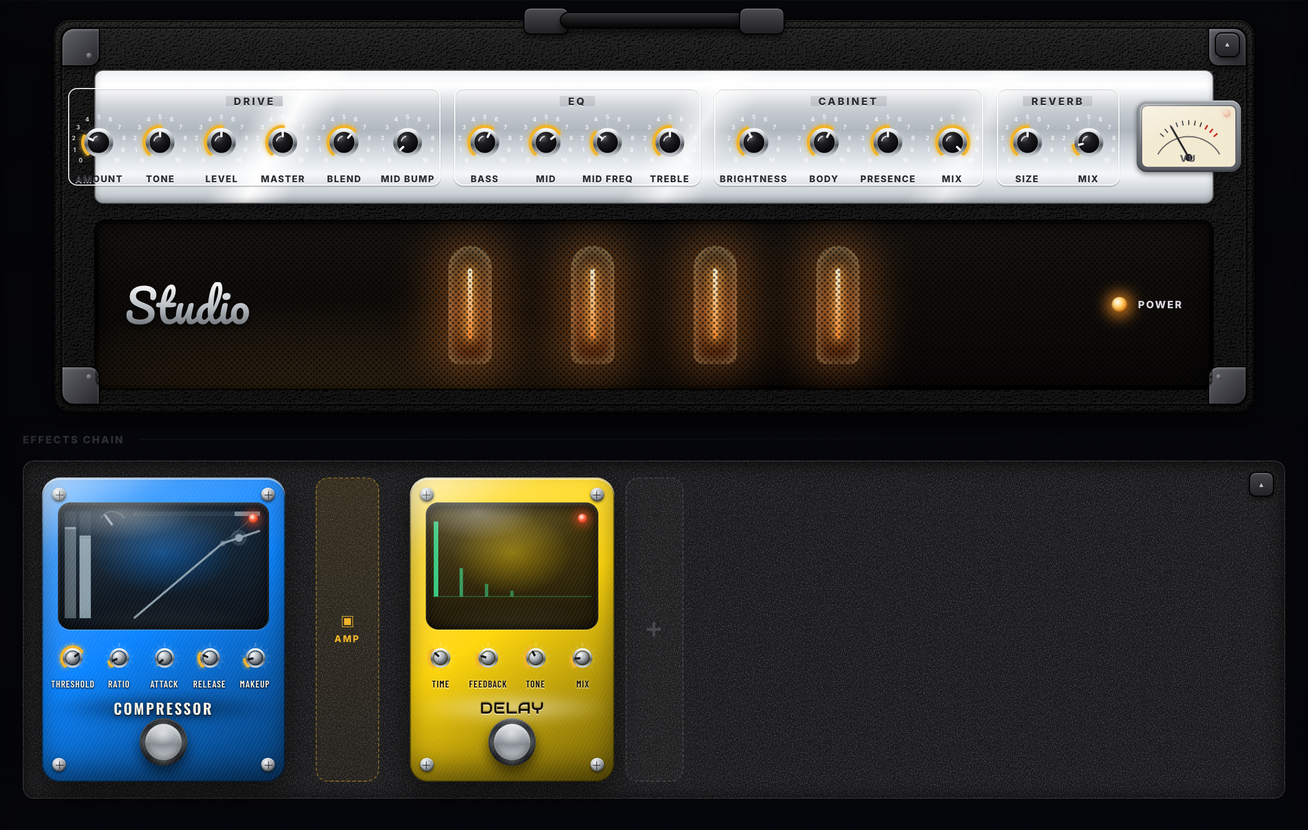
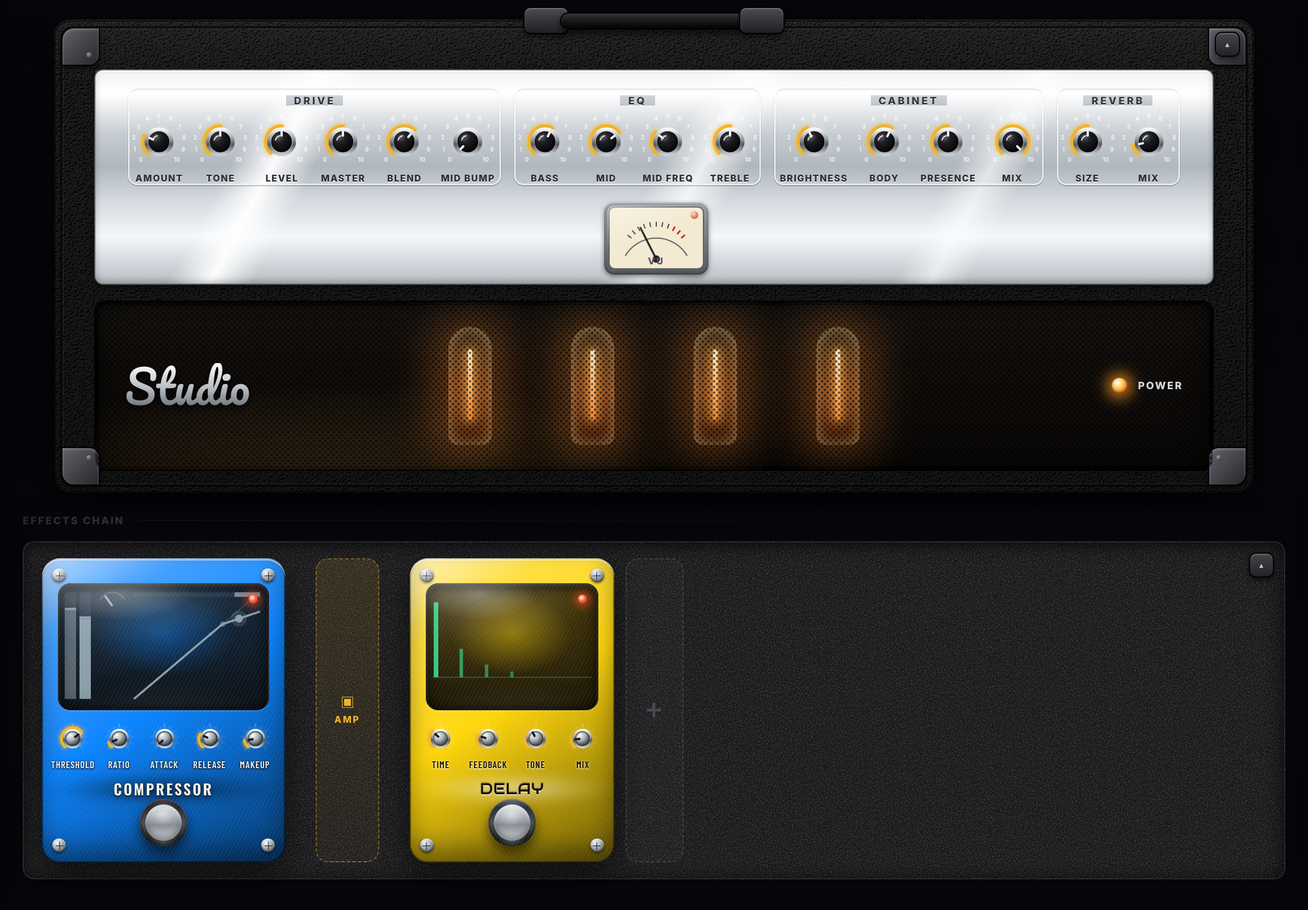
fix(amp): keep knob groups inside the silver panel (wrap instead of spill)
.amp-panel was flex-wrap: nowrap with flex: 0 0 auto children and centered
justification, so when the head hit max-width (or the window squeezed) the
knob groups + VU overflowed past BOTH edges of the brushed-metal panel onto
the tolex. Let the panel wrap — the 8px row-gap already provisioned for it —
so tight widths flow to a second row inside the panel. Verified 0 knobs/VU
outside the panel bounding box at 1440 and 1260 widths; rigbar live checks
12/12 PASS; shots refreshed.

diff --git a/index.html b/index.html
@@ -291,7 +291,10 @@
   .amp-corner-bl { bottom: 7px; left: 7px; border-radius: 0 9px 0 11px; } .amp-corner-bl::after { right: 6px; top: 6px; }
   .amp-corner-br { bottom: 7px; right: 7px; border-radius: 9px 0 11px 0; } .amp-corner-br::after { left: 6px; top: 6px; }
   .amp-panel {
-    position: relative; display: flex; flex-wrap: nowrap; align-items: stretch; justify-content: center; gap: 8px 2px;
+    /* wrap: when the head hits max-width the knob groups flow to a second row
+       INSIDE the silver panel instead of spilling past its edges (the 8px
+       row-gap below exists for exactly this) */
+    position: relative; display: flex; flex-wrap: wrap; align-items: stretch; justify-content: center; gap: 8px 2px;
     margin: 10px 16px 14px; padding: 8px 12px; border-radius: 8px;
     background:
       linear-gradient(118deg, transparent 15%, rgba(255,255,255,0.95) 18.5%, transparent 22%,
